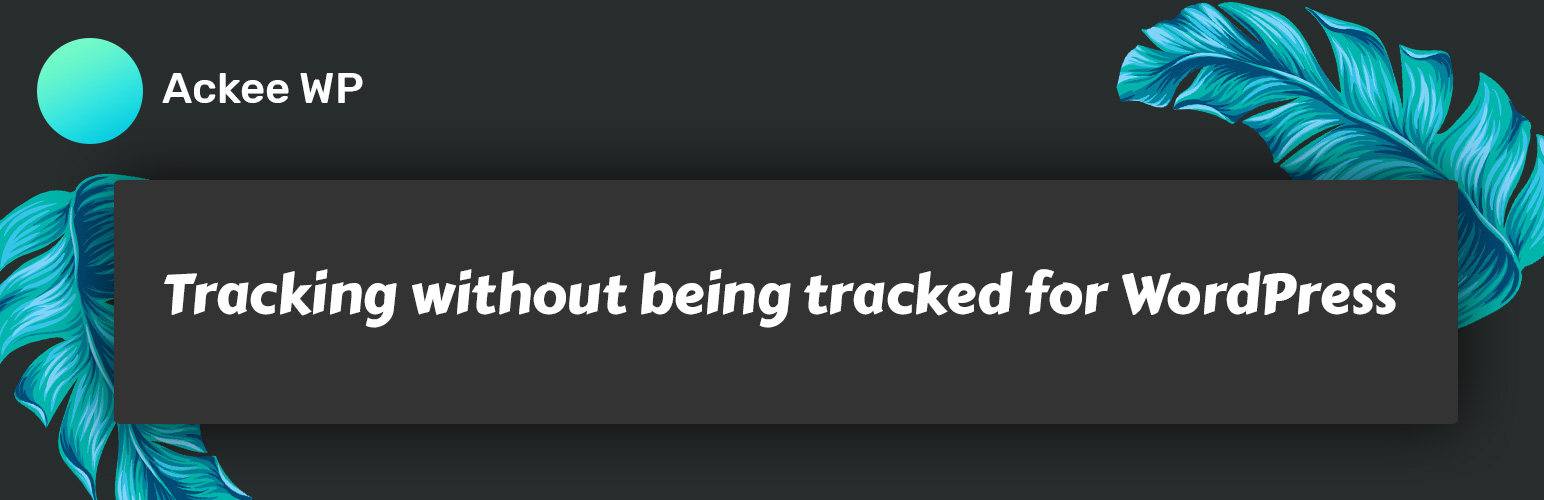
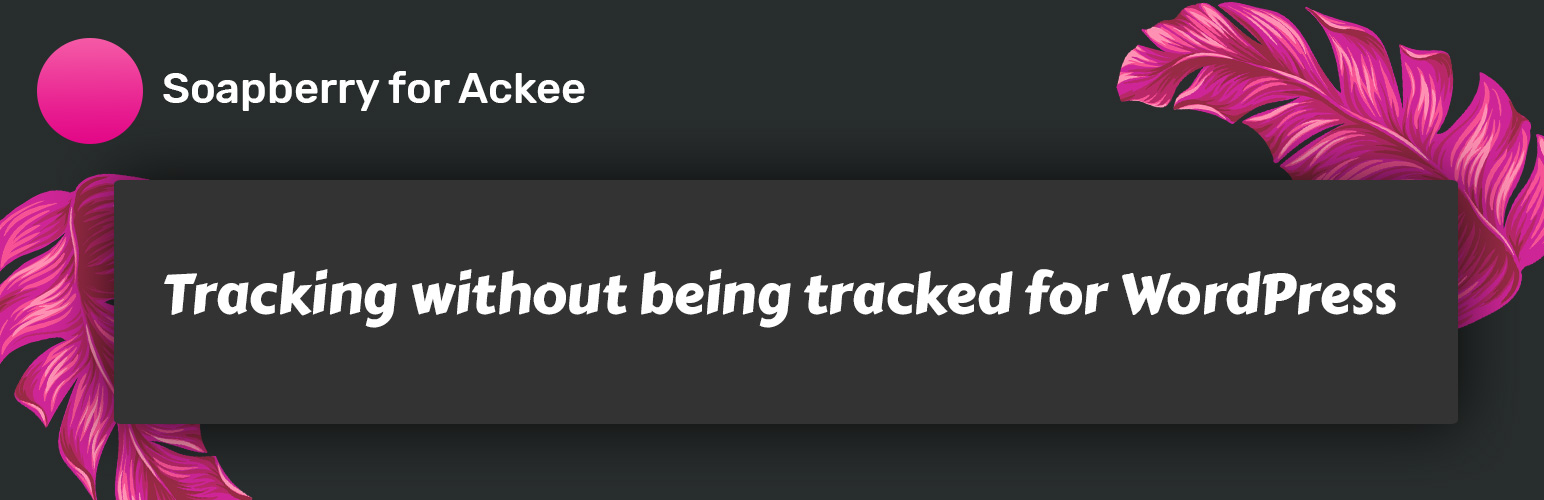
Update readme and assets

Changed region(s): [[0.715, 0.0, 1.0, 0.66], [0.0, 0.33, 0.1865, 1.0], [0.0, 0.06, 0.4041, 0.3]]

diff --git a/readme.md b/readme.md
@@ -1,47 +1,44 @@
-# Ackee WP 
-**Contributors:** brookedot
-**Tags:** tracking, analytics, stats
-**Requires at least:** 4.1
-**Tested up to:** 5.3.2
-**Requires PHP:** 5.6
-**Stable tag:** 1.0.0
-**License:** GPLv3 or later
-**License URI:** https://www.gnu.org/licenses/gpl-3.0.html
+# Soapberry 
 
-Ackee WP adds WP Admin options to support the JavaScript tracking code required by an external Ackee instance.
+Gather data on site visits while respecting visitor privacy using Soapberry alongside a self-hosted Ackee instance.
 
-## Description
+## Description 
 
-This plugin adds a settings page in WP Admin to set up the JavaScript tracking code required to track visits with an externally hosted [Ackee](https://ackee.electerious.com/) instance.
+Soapberry makes it possible to use an externally hosted [Ackee](https://ackee.electerious.com/) analytics instance with your WordPress site without editing any code. It provides a settings page in WP Admin to add the required JavaScript tracking elements to your site's footer. 
 
-To use this plugin, one must have access to an Ackee instance with their  WordPress domain added as a domain in the setting and have that domain set in the [CORS headers](https://github.com/electerious/Ackee/blob/master/docs/CORS%20headers.md) of the Ackee domain.
+To use this plugin, one must have access to an Ackee instance set up with a Domain ID and [CORS headers](https://github.com/electerious/Ackee/blob/master/docs/CORS%20headers.md) matching that of the WordPress domain.
 
-Ackee is a:
+The upstream Ackee project describes the project as a:
 > Self-hosted, Node.js based analytics tool for those who care about privacy. Ackee runs on your own server, analyses the traffic of your websites and provides useful statistics in a minimal interface.
 
-Currently, the plugin's functionality is limited to the essential features to add the tracker to the footer.  In the future, the functionality might extend to tracking based on roles or the ability to use Ackee's personalization analytics with the visitor's opt-in.
+The plugin's current functionality is limited to the essential features of addding the JavaScript tracker to the footer with an option to disable tracking of logged in visits. In the future, this functionality might extend to tracking based on user roles or the ability to use Ackee's personalization analytics with the visitor's consent.
 
-## Installation
+## Installation 
 
-The quickest method for installing Ackee WP is:
+The quickest method for installing Soapberry is:
 
 1. Visit Plugins -> Add New in the WordPress admin
-1. Search for "WP Ackee"
+1. Search for "Soapberry"
 1. Click "Install Now"
 1. Once the install is complete, click "Activate".
-1. Go to the Settings -> WP Ackee to add your Ackee settings.
+1. Go to the Settings -> Soapberry to add your Ackee settings.
 
 If you would prefer to do things manually, then follow these instructions:
 
-1. Upload the `wp-ackee` folder to the `/wp-content/plugins/` directory
+1. Upload the `soapberry` folder to the `/wp-content/plugins/` directory
 1. Activate the plugin through the 'Plugins' menu in WordPress
-1. Go to the Settings -> WP Ackee to add the Ackee settings.
+1. Go to the Settings -> Soapberry to add the Ackee settings.
 
-## Frequently Asked Questions
+## Frequently Asked Questions 
 
-### The plugin is active but I do not see the tracking code
+### Why Soapberry? 
 
-First, make sure your theme has the `wp_footer()` function added before the closing body tag. The plugin hooks into the WordPress footer, making this template tag required.
+The [Ackee plant](https://en.wikipedia.org/wiki/Ackee) is in the Sapindaceae (soapberry) family. The name Soapberry strives to indicate this plugin is complementary to the work by the Ackee project while by unique enough to make clear that the two are not formally associated. Fun fact, the fruit of the Soapberry plant is used to make soap which is where Sapindus got its secondary name.
+
+
+### The plugin is active but I do not see the tracking code. 
+
+First, make sure your theme has the `wp_footer()` function added before the closing body tag. The plugin hooks into the WordPress footer, making this template tag required. 
 
 If you're still not seeing the tracking code, make sure your settings have been saved, and you do not have the "Exclude Logged In" checkbox enabled. If you are excluding logged in visits, then try loading your site in a private tab or another browser.
 
